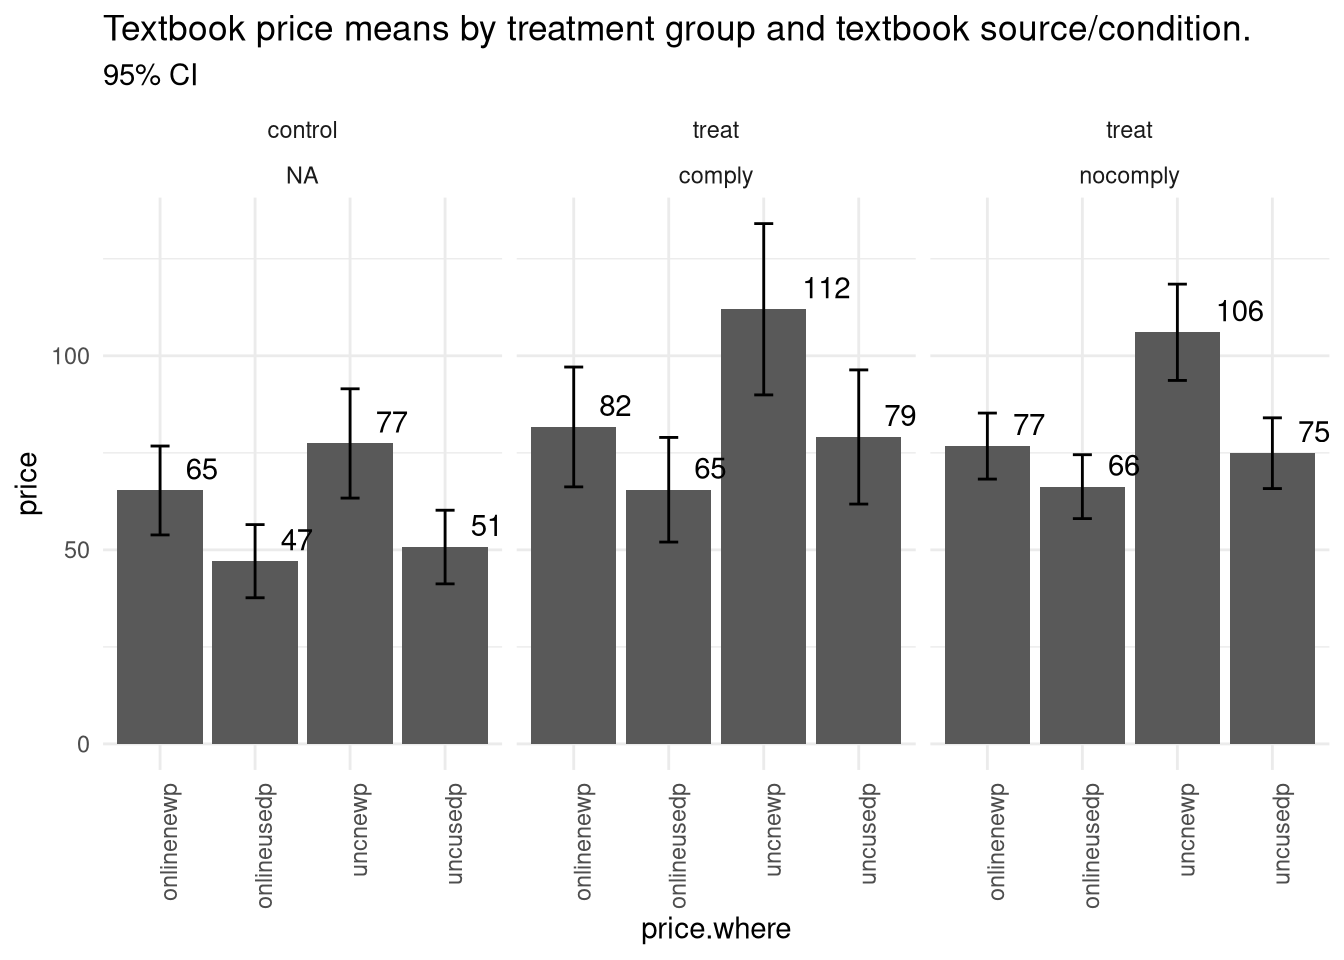
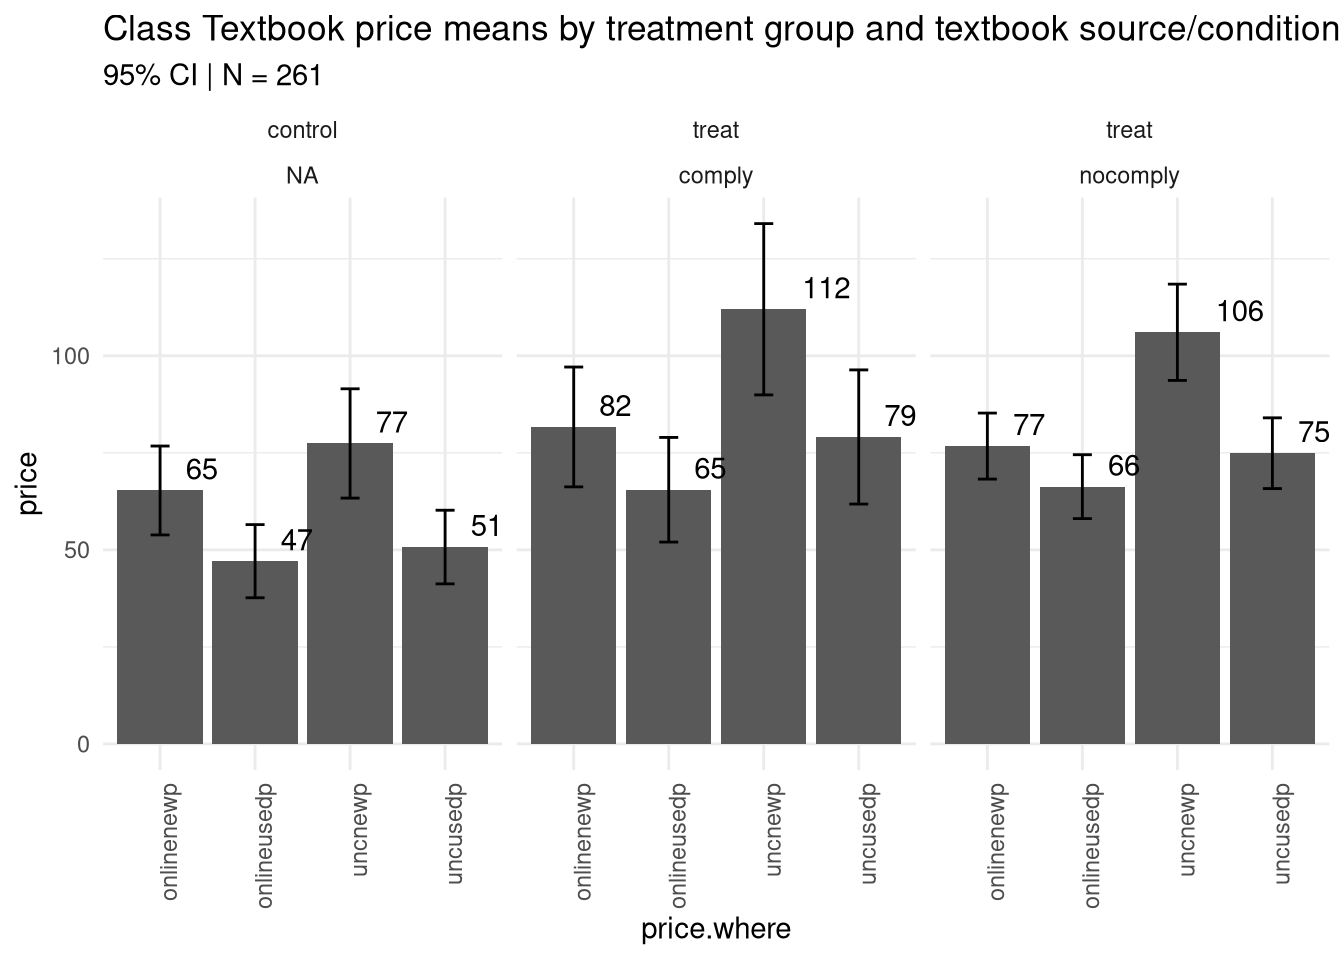
indciate price plots use # classes

Changed region(s): [[0.0625, 0.0, 1.0, 0.0938]]

diff --git a/docs/summaryStats.html b/docs/summaryStats.html
@@ -496,10 +496,10 @@ This reproducible <a href="http://rmarkdown.rstudio.com">R Markdown</a> analysis
 <div class="panel panel-default">
 <div class="panel-heading">
 <p class="panel-title">
-<a data-toggle="collapse" data-parent="#workflowr-checks" href="#strongRepositoryversionstrongahrefhttpsgithubcomshugamoecleanittreef28f3b4d7467f954e77219c9b93dbe687d63e909targetblankf28f3b4a"> <span class="glyphicon glyphicon-ok text-success" aria-hidden="true"></span> <strong>Repository version:</strong> <a href="https://github.com/shugamoe/cleanit/tree/f28f3b4d7467f954e77219c9b93dbe687d63e909" target="_blank">f28f3b4</a> </a>
+<a data-toggle="collapse" data-parent="#workflowr-checks" href="#strongRepositoryversionstrongahrefhttpsgithubcomshugamoecleanittree46d3c35a6763eab3a83b22ddccfe28c7f6297b59targetblank46d3c35a"> <span class="glyphicon glyphicon-ok text-success" aria-hidden="true"></span> <strong>Repository version:</strong> <a href="https://github.com/shugamoe/cleanit/tree/46d3c35a6763eab3a83b22ddccfe28c7f6297b59" target="_blank">46d3c35</a> </a>
 </p>
 </div>
[2 lines of base64/hex data omitted]
 <div class="panel-body">
 <p>
 Great! You are using Git for version control. Tracking code development and connecting the code version to the results is critical for reproducibility. The version displayed above was the version of the Git repository at the time these results were generated. <br><br> Note that you need to be careful to ensure that all relevant files for the analysis have been committed to Git prior to generating the results (you can use <code>wflow_publish</code> or <code>wflow_git_commit</code>). workflowr only checks the R Markdown file, but you know if there are other scripts or data files that it depends on. Below is the status of the Git repository when the results were generated:
@@ -515,6 +515,9 @@ Untracked files:
     Untracked:  data/cleansample.csv
     Untracked:  data/pricebeliefs.csv
     Untracked:  packrat/src/
+
+Unstaged changes:
+    Modified:   R/functions.R
 
 </code></pre>
 <p>
@@ -553,6 +556,40 @@ Message
 </tr>
 </thead>
 <tbody>
+<tr>
+<td>
+Rmd
+</td>
+<td>
+<a href="https://github.com/shugamoe/cleanit/blob/46d3c35a6763eab3a83b22ddccfe28c7f6297b59/analysis/summaryStats.Rmd" target="_blank">46d3c35</a>
+</td>
+<td>
+Julian McClellan
+</td>
+<td>
+2020-02-27
+</td>
+<td>
+indicate price plots use # classes
+</td>
+</tr>
+<tr>
+<td>
+html
+</td>
+<td>
+<a href="https://rawcdn.githack.com/shugamoe/cleanit/c8b4db7054baba89a215e239aaf80184e77fd753/docs/summaryStats.html" target="_blank">c8b4db7</a>
+</td>
+<td>
+Julian McClellan
+</td>
+<td>
+2020-02-27
+</td>
+<td>
+Cleanup .md titles.
+</td>
+</tr>
 <tr>
 <td>
 Rmd
@@ -759,9 +796,8 @@ Julian McClellan
 </table>
 </div>
 </div>
-</div>
-<div id="treatment-breakdown-book-price-comparison" class="section level2">
-<h2>Treatment Breakdown: Book Price Comparison</h2>
+<div id="classes-book-price-comparison" class="section level3">
+<h3>Classes: Book Price Comparison</h3>
 <p><img src="figure/summaryStats.Rmd/cs_gtreatbprice-1.png" width="672" style="display: block; margin: auto;" /></p>
 <p>
 <button type="button" class="btn btn-default btn-xs btn-workflowr btn-workflowr-fig" data-toggle="collapse" data-target="#fig-cs_gtreatbprice-1">
@@ -798,6 +834,7 @@ Julian McClellan
 </tr>
 </tbody>
 </table>
+</div>
 </div>
 </div>
 </div>
@@ -971,9 +1008,8 @@ Julian McClellan
 </table>
 </div>
 </div>
-</div>
-<div id="treatment-breakdown-book-price-comparison-1" class="section level2">
-<h2>Treatment Breakdown: Book Price Comparison</h2>
+<div id="classes-book-price-comparison-1" class="section level3">
+<h3>Classes: Book Price Comparison</h3>
 <p><img src="figure/summaryStats.Rmd/unnamed-chunk-5-1.png" width="672" style="display: block; margin: auto;" /></p>
 <p>
 <button type="button" class="btn btn-default btn-xs btn-workflowr btn-workflowr-fig" data-toggle="collapse" data-target="#fig-unnamed-chunk-5-1">
@@ -1010,6 +1046,7 @@ Julian McClellan
 </tr>
 </tbody>
 </table>
+</div>
 </div>
 </div>
 </div>
@@ -1183,9 +1220,8 @@ Julian McClellan
 </table>
 </div>
 </div>
-</div>
-<div id="treatment-breakdown-book-price-comparison-2" class="section level2">
-<h2>Treatment Breakdown: Book Price Comparison</h2>
+<div id="classes-book-price-comparison-2" class="section level3">
+<h3>Classes: Book Price Comparison</h3>
 <p><img src="figure/summaryStats.Rmd/unnamed-chunk-10-1.png" width="672" style="display: block; margin: auto;" /></p>
 <p>
 <button type="button" class="btn btn-default btn-xs btn-workflowr btn-workflowr-fig" data-toggle="collapse" data-target="#fig-unnamed-chunk-10-1">
@@ -1222,6 +1258,7 @@ Julian McClellan
 </tr>
 </tbody>
 </table>
+</div>
 </div>
 </div>
 </div>

diff --git a/docs/index.html b/docs/index.html
@@ -360,10 +360,10 @@ This reproducible <a href="http://rmarkdown.rstudio.com">R Markdown</a> analysis
 <div class="panel panel-default">
 <div class="panel-heading">
 <p class="panel-title">
-<a data-toggle="collapse" data-parent="#workflowr-checks" href="#strongRepositoryversionstrongahrefhttpsgithubcomshugamoecleanittree70929c9b2bcb37e64bc9ec66575be15e29cebc79targetblank70929c9a"> <span class="glyphicon glyphicon-ok text-success" aria-hidden="true"></span> <strong>Repository version:</strong> <a href="https://github.com/shugamoe/cleanit/tree/70929c9b2bcb37e64bc9ec66575be15e29cebc79" target="_blank">70929c9</a> </a>
+<a data-toggle="collapse" data-parent="#workflowr-checks" href="#strongRepositoryversionstrongahrefhttpsgithubcomshugamoecleanittree46d3c35a6763eab3a83b22ddccfe28c7f6297b59targetblank46d3c35a"> <span class="glyphicon glyphicon-ok text-success" aria-hidden="true"></span> <strong>Repository version:</strong> <a href="https://github.com/shugamoe/cleanit/tree/46d3c35a6763eab3a83b22ddccfe28c7f6297b59" target="_blank">46d3c35</a> </a>
 </p>
 </div>
[2 lines of base64/hex data omitted]
 <div class="panel-body">
 <p>
 Great! You are using Git for version control. Tracking code development and connecting the code version to the results is critical for reproducibility. The version displayed above was the version of the Git repository at the time these results were generated. <br><br> Note that you need to be careful to ensure that all relevant files for the analysis have been committed to Git prior to generating the results (you can use <code>wflow_publish</code> or <code>wflow_git_commit</code>). workflowr only checks the R Markdown file, but you know if there are other scripts or data files that it depends on. Below is the status of the Git repository when the results were generated:
@@ -379,6 +379,9 @@ Untracked files:
     Untracked:  data/cleansample.csv
     Untracked:  data/pricebeliefs.csv
     Untracked:  packrat/src/
+
+Unstaged changes:
+    Modified:   R/functions.R
 
 </code></pre>
 <p>
@@ -417,6 +420,23 @@ Message
 </tr>
 </thead>
 <tbody>
+<tr>
+<td>
+html
+</td>
+<td>
+<a href="https://rawcdn.githack.com/shugamoe/cleanit/8ce3ecbdb056a3d1a0391c892e0b6aa239ad540e/docs/index.html" target="_blank">8ce3ecb</a>
+</td>
+<td>
+Julian McClellan
+</td>
+<td>
+2020-02-27
+</td>
+<td>
+Fix summaryStats link on home page.
+</td>
+</tr>
 <tr>
 <td>
 Rmd

diff --git a/docs/license.html b/docs/license.html
@@ -360,10 +360,10 @@ This reproducible <a href="http://rmarkdown.rstudio.com">R Markdown</a> analysis
 <div class="panel panel-default">
 <div class="panel-heading">
 <p class="panel-title">
-<a data-toggle="collapse" data-parent="#workflowr-checks" href="#strongRepositoryversionstrongahrefhttpsgithubcomshugamoecleanittree6d5b95dd99ec221448c5009f02dd0d4a80a1ad43targetblank6d5b95da"> <span class="glyphicon glyphicon-ok text-success" aria-hidden="true"></span> <strong>Repository version:</strong> <a href="https://github.com/shugamoe/cleanit/tree/6d5b95dd99ec221448c5009f02dd0d4a80a1ad43" target="_blank">6d5b95d</a> </a>
+<a data-toggle="collapse" data-parent="#workflowr-checks" href="#strongRepositoryversionstrongahrefhttpsgithubcomshugamoecleanittree46d3c35a6763eab3a83b22ddccfe28c7f6297b59targetblank46d3c35a"> <span class="glyphicon glyphicon-ok text-success" aria-hidden="true"></span> <strong>Repository version:</strong> <a href="https://github.com/shugamoe/cleanit/tree/46d3c35a6763eab3a83b22ddccfe28c7f6297b59" target="_blank">46d3c35</a> </a>
 </p>
 </div>
[2 lines of base64/hex data omitted]
 <div class="panel-body">
 <p>
 Great! You are using Git for version control. Tracking code development and connecting the code version to the results is critical for reproducibility. The version displayed above was the version of the Git repository at the time these results were generated. <br><br> Note that you need to be careful to ensure that all relevant files for the analysis have been committed to Git prior to generating the results (you can use <code>wflow_publish</code> or <code>wflow_git_commit</code>). workflowr only checks the R Markdown file, but you know if there are other scripts or data files that it depends on. Below is the status of the Git repository when the results were generated:
@@ -379,6 +379,9 @@ Untracked files:
     Untracked:  data/cleansample.csv
     Untracked:  data/pricebeliefs.csv
     Untracked:  packrat/src/
+
+Unstaged changes:
+    Modified:   R/functions.R
 
 </code></pre>
 <p>
@@ -417,6 +420,23 @@ Message
 </tr>
 </thead>
 <tbody>
+<tr>
+<td>
+html
+</td>
+<td>
+<a href="https://rawcdn.githack.com/shugamoe/cleanit/8ddc410f6e4395f2834db1b96cfdea16afcc570d/docs/license.html" target="_blank">8ddc410</a>
+</td>
+<td>
+Julian McClellan
+</td>
+<td>
+2020-02-27
+</td>
+<td>
+Build site.
+</td>
+</tr>
 <tr>
 <td>
 html

diff --git a/docs/about.html b/docs/about.html
@@ -360,10 +360,10 @@ This reproducible <a href="http://rmarkdown.rstudio.com">R Markdown</a> analysis
 <div class="panel panel-default">
 <div class="panel-heading">
 <p class="panel-title">
-<a data-toggle="collapse" data-parent="#workflowr-checks" href="#strongRepositoryversionstrongahrefhttpsgithubcomshugamoecleanittree6d5b95dd99ec221448c5009f02dd0d4a80a1ad43targetblank6d5b95da"> <span class="glyphicon glyphicon-ok text-success" aria-hidden="true"></span> <strong>Repository version:</strong> <a href="https://github.com/shugamoe/cleanit/tree/6d5b95dd99ec221448c5009f02dd0d4a80a1ad43" target="_blank">6d5b95d</a> </a>
+<a data-toggle="collapse" data-parent="#workflowr-checks" href="#strongRepositoryversionstrongahrefhttpsgithubcomshugamoecleanittree46d3c35a6763eab3a83b22ddccfe28c7f6297b59targetblank46d3c35a"> <span class="glyphicon glyphicon-ok text-success" aria-hidden="true"></span> <strong>Repository version:</strong> <a href="https://github.com/shugamoe/cleanit/tree/46d3c35a6763eab3a83b22ddccfe28c7f6297b59" target="_blank">46d3c35</a> </a>
 </p>
 </div>
[2 lines of base64/hex data omitted]
 <div class="panel-body">
 <p>
 Great! You are using Git for version control. Tracking code development and connecting the code version to the results is critical for reproducibility. The version displayed above was the version of the Git repository at the time these results were generated. <br><br> Note that you need to be careful to ensure that all relevant files for the analysis have been committed to Git prior to generating the results (you can use <code>wflow_publish</code> or <code>wflow_git_commit</code>). workflowr only checks the R Markdown file, but you know if there are other scripts or data files that it depends on. Below is the status of the Git repository when the results were generated:
@@ -379,6 +379,9 @@ Untracked files:
     Untracked:  data/cleansample.csv
     Untracked:  data/pricebeliefs.csv
     Untracked:  packrat/src/
+
+Unstaged changes:
+    Modified:   R/functions.R
 
 </code></pre>
 <p>
@@ -417,6 +420,23 @@ Message
 </tr>
 </thead>
 <tbody>
+<tr>
+<td>
+html
+</td>
+<td>
+<a href="https://rawcdn.githack.com/shugamoe/cleanit/8ddc410f6e4395f2834db1b96cfdea16afcc570d/docs/about.html" target="_blank">8ddc410</a>
+</td>
+<td>
+Julian McClellan
+</td>
+<td>
+2020-02-27
+</td>
+<td>
+Build site.
+</td>
+</tr>
 <tr>
 <td>
 html
